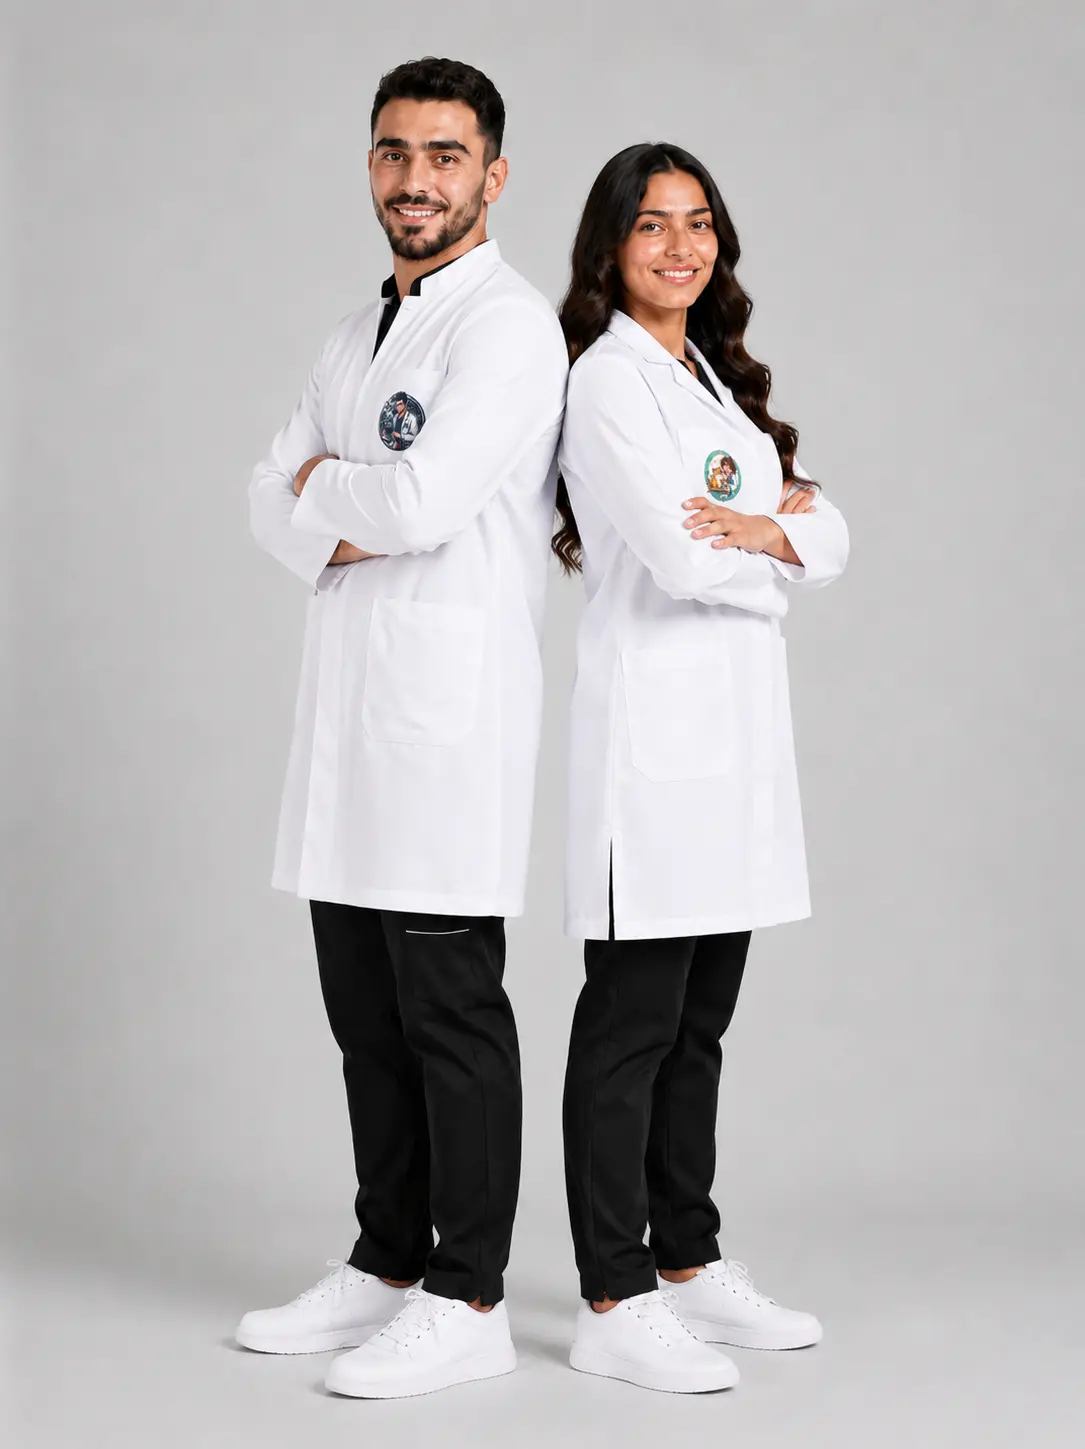
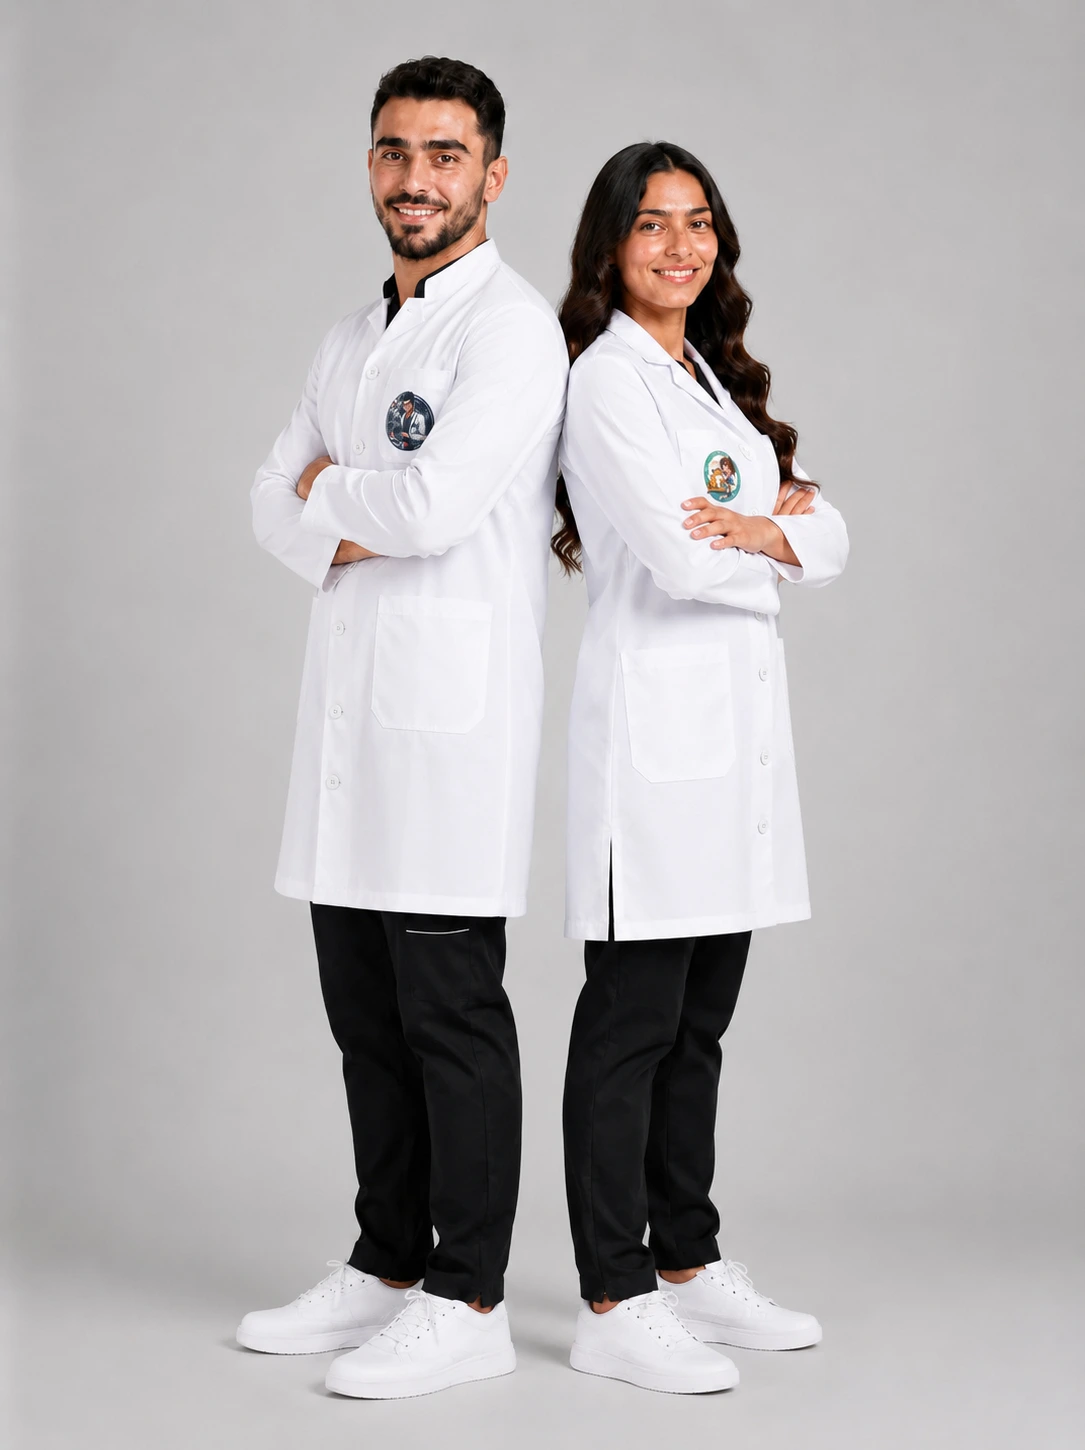
edit photo coat

diff --git a/app/shop/[slug]/page.tsx b/app/shop/[slug]/page.tsx
@@ -135,9 +135,9 @@ export default function ProductDetail() {
   }, [product.id]);
   const DISCOUNT_PERCENT = 30;
   const isCoat = product.id === "white-coat";
-  const discountedPrice = isCoat ? 500 : product.price;
+  const discountedPrice = isCoat ? 550 : product.price;
   const originalPrice = isCoat
-    ? 650
+    ? 750
     : Math.round(discountedPrice / (1 - DISCOUNT_PERCENT / 100));
   return (
     <>

diff --git a/components/product/ProductCard.tsx b/components/product/ProductCard.tsx
@@ -18,9 +18,9 @@ export default function ProductCard({ product, onAddToCart }: Props) {
 
   const isCoat = product.id === "white-coat";
 
-  const discountedPrice = isCoat ? 500 : product.price;
+  const discountedPrice = isCoat ? 550 : product.price;
   const originalPrice = isCoat
-    ? 650
+    ? 750
     : Math.round(discountedPrice / (1 - DISCOUNT_PERCENT / 100));
 
   return (

diff --git a/data/products.ts b/data/products.ts
@@ -114,7 +114,7 @@ export const products: Product[] = [
     slug: "essential-white-coat",
     category: "tops",
     gender: "unisex",
-    price: 500,
+    price: 550,
     description:
       "Premium Rosalin white coat — extremely comfortable, breathable, free printing included, with an 8-year warranty.",
     longDescription: COAT_LONG,
